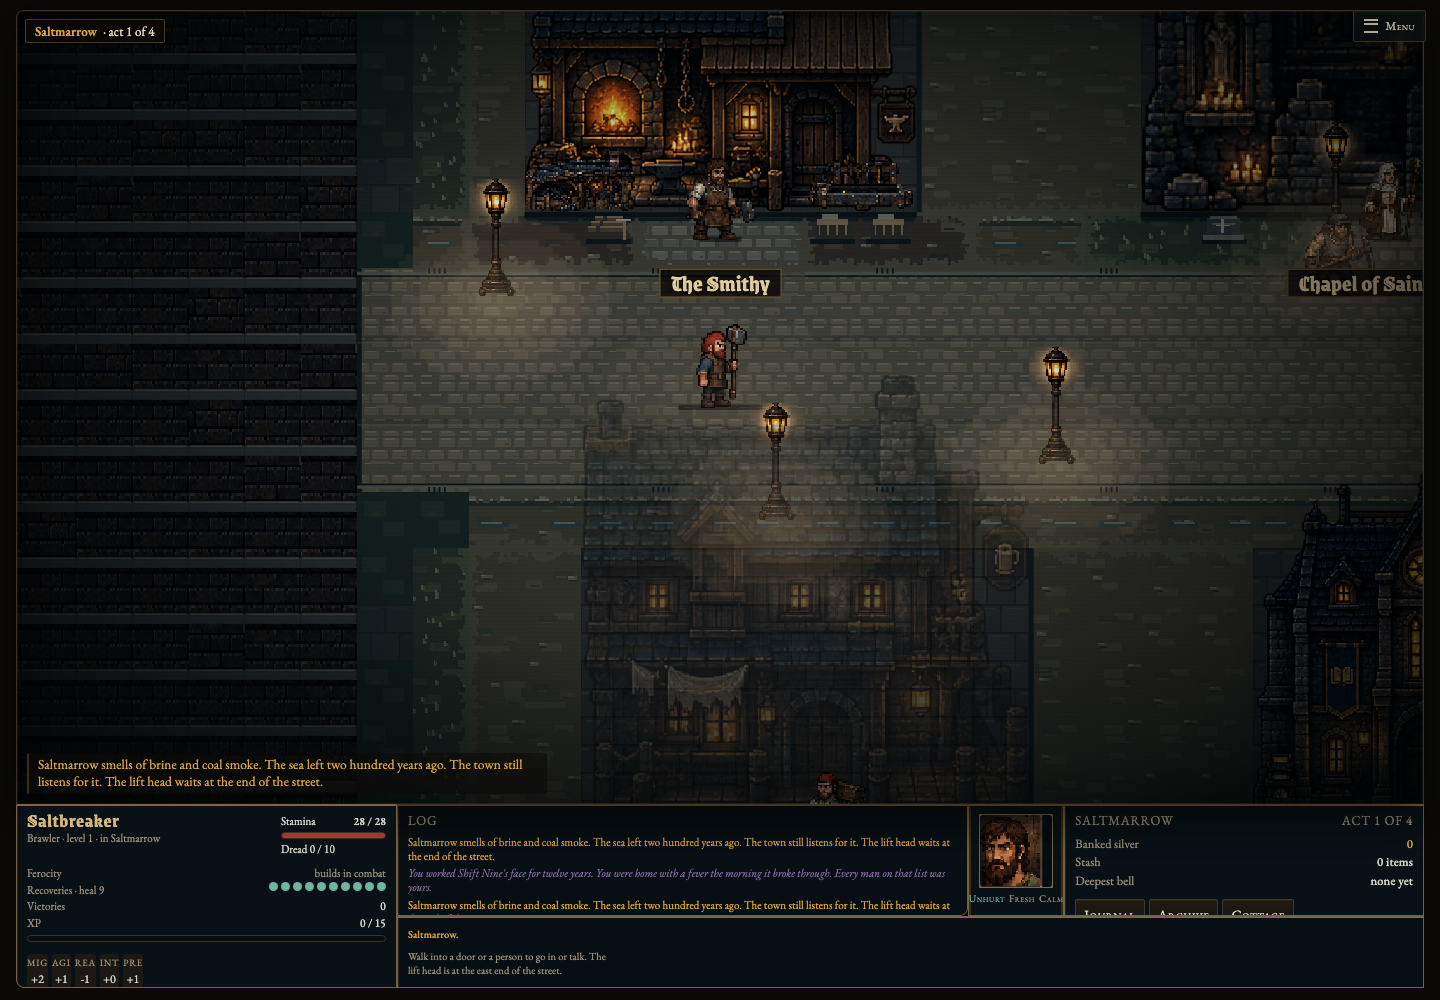
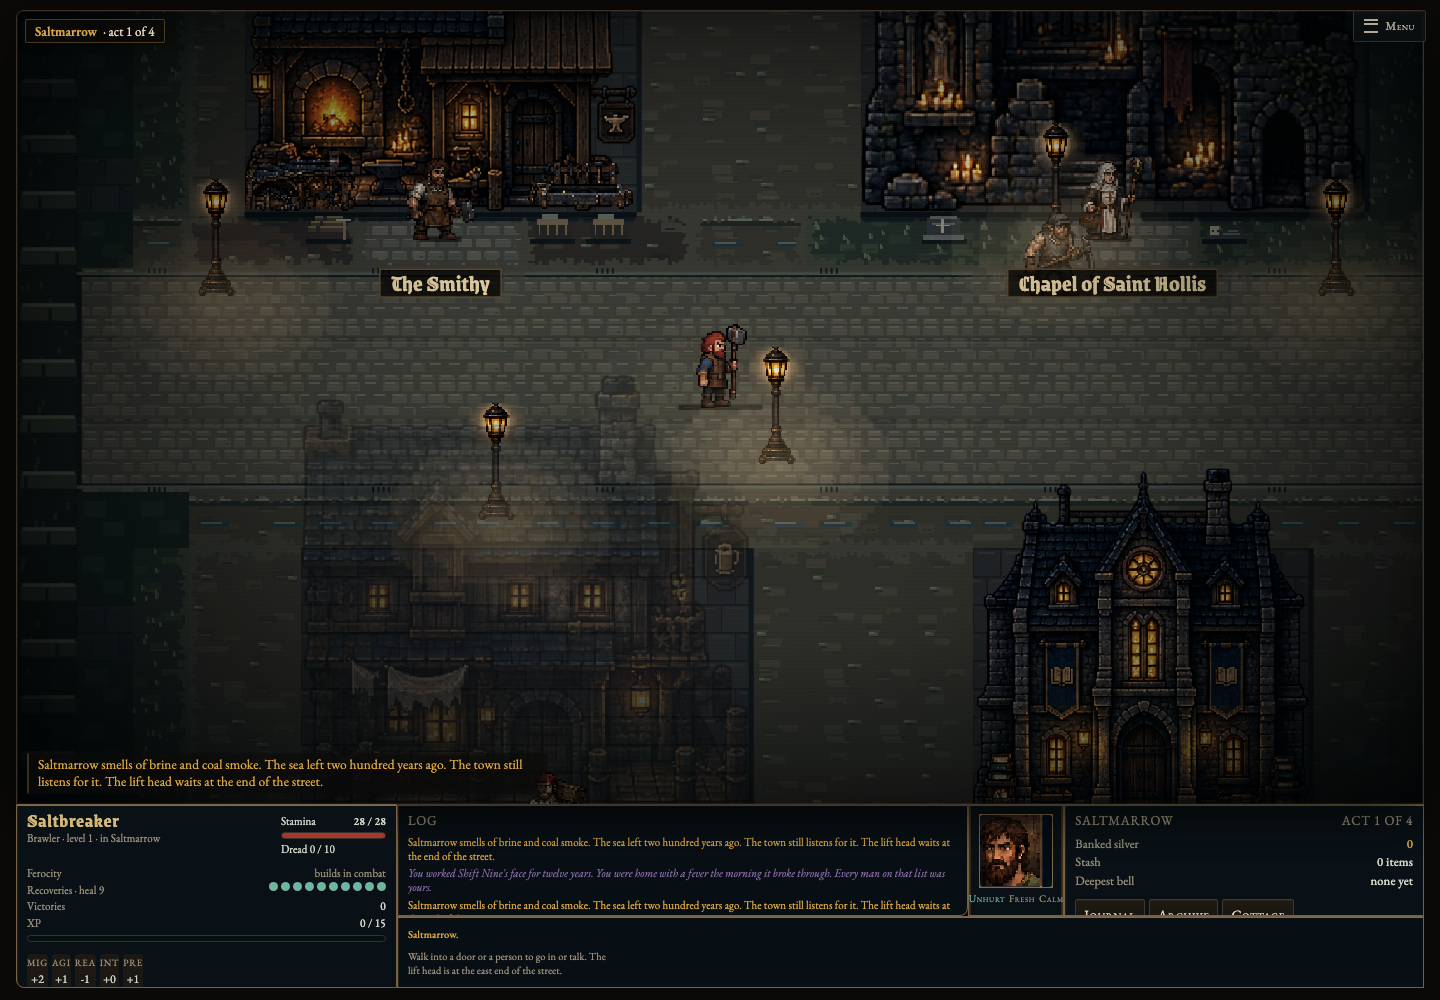
Ground town outskirts and refine the street comparison camera

diff --git a/environment-surfaces.js b/environment-surfaces.js
@@ -56,6 +56,13 @@ function get(L,t,x,y,{w,types,buildings=[]}){
  return tile(kind,hash(x,y,13)%8,edges);
 }
 function wall(g,L,x,y,front,w){
+ if(L.town&&!L.interior){
+  const i=y*w+x,edge=[L.map[i-w],L.map[i+w],L.map[i-1],L.map[i+1]].some(t=>t!==undefined&&t!==0);
+  g.save();g.fillStyle='#172622';g.fillRect(x*32,y*32,32,32);
+  g.fillStyle='#25372a';for(let j=0;j<4;j++){const n=hash(x+j,y,29);g.fillRect(x*32+n%27,y*32+(n>>>5)%26,2,4)}
+  if(edge){g.fillStyle='#303c34';g.fillRect(x*32,(y+1)*32-11,32,9);g.fillStyle='#56604b';g.fillRect(x*32+1,(y+1)*32-12,30,2);g.fillStyle='#172820';g.fillRect(x*32+hash(x,y)%21,(y+1)*32-9,2,7)}
+  g.restore();return true;
+ }
  if(L.bio!=='mine'||L.map[y*w+x]!==0)return false;
  const exposed=front||L.map[(y+1)*w+x]===1||L.map[y*w+x-1]===1||L.map[y*w+x+1]===1;
  if(!exposed){g.fillStyle='#152322';g.fillRect(x*32,y*32,32,32);const n=hash(Math.floor(x/2),Math.floor(y/2),91);g.fillStyle='#1c2b28';g.fillRect(x*32,y*32+4+n%9,32,11);return true;}

diff --git a/docs/environment-workyards.md b/docs/environment-workyards.md
@@ -4,7 +4,7 @@ This expands the environment pass using two references as design principles: Cor
 
 ## What changed
 
-The town now separates worn cobbled streets, paved entrances, cinder-stained smithy frontage, damp verge drainage, packed-earth yards and grass margins. Wheel wear follows two continuous world-space tracks, rather than repeating within every tile. Stepped boundaries break up material transitions. The smithy has a roofed coal store and a quenching trough with a tool rack, positioned inside its existing blocked facade cells and away from its doorway.
+The town now separates worn cobbled streets, paved entrances, cinder-stained smithy frontage, damp verge drainage, packed-earth yards and grass margins. Wheel wear follows two continuous world-space tracks, rather than repeating within every tile. Stepped boundaries break up material transitions. Town outskirts use dark ground, grass tufts and low stone boundaries instead of dungeon masonry. The smithy has a roofed coal store and a quenching trough with a tool rack, positioned inside its existing blocked facade cells and away from its doorway.
 
 Mine floors distinguish compacted earth, exposed bedrock, working bays and scree along room rims. Solid surrounding rock is deliberately darker and quieter than exposed wall faces. Irregular wall fractures and spaced timber supports replace the uniform masonry finish; cracked walls retain their gameplay cues. Procedural rooms with suitable rear walls receive a survey/tool station or a winch for rail/storage rooms. A restrained lantern pool grounds the survey station.
 
@@ -21,7 +21,7 @@ Mine floors distinguish compacted earth, exposed bedrock, working bays and scree
 
 On current animation/weapon main `9bf5a8a`:
 
-- `npm test`: **71 passing**. Includes 80 seeded dungeon placement runs and 60 additional seeded mine landmark runs, immutable simulation data/RNG, entrance clearance, wall-bound placement, broken-wall/clue/fog suppression and material classification.
+- `npm test`: **72 passing**. Includes 80 seeded dungeon placement runs and 60 additional seeded mine landmark runs, immutable simulation data/RNG, entrance clearance, wall-bound placement, broken-wall/clue/fog suppression and material classification.
 - `node tests/environment-browser.cjs`: desktop town/mine/crypt/fungal/drowned generation; four workyard sprites load with bounded native sizes; matched frozen before/after renders differ; actual movement through decorated tiles succeeds; map data stays unchanged; no page errors; smoothing disabled.
 - `node tests/tactics-browser.cjs`, `node tests/weapons-browser.cjs`, `node tests/animation-browser.cjs`, `node tests/flat-browser.cjs`, `node tests/art-browser.cjs`: pass locally.
 - Local 1440×1000 Chromium full-scene draws averaged approximately **6–14 ms** over 30 warm draws per scene. This is a diagnostic, not a physical GPU or Safari performance guarantee.

diff --git a/docs/environment-art.md b/docs/environment-art.md
@@ -23,7 +23,7 @@ The plan is intentionally stable for each level object: changes to terrain suppr
 
 On macOS, 1440×1000 Chromium desktop viewport, DPR 1:
 
-- `npm test`: **71 passing**, including 80 reproducible real dungeon generations (20 seeds at depths 1/3/5/7), immutability, no gameplay RNG consumption, corridor/entrance clearance, dynamic occupancy/hazard suppression, reduced-motion glow and renderer ordering.
+- `npm test`: **72 passing**, including 80 reproducible real dungeon generations (20 seeds at depths 1/3/5/7), immutability, no gameplay RNG consumption, corridor/entrance clearance, dynamic occupancy/hazard suppression, reduced-motion glow and renderer ordering.
 - `npm run test:environment`: five real game scenes, matched screenshots with only the two environment hooks toggled, actual keyboard-equivalent traversal into decorated cells, unchanged navigation data, smoothing disabled and no runtime errors. About **6–14 ms per full render** in this local run (30 synchronous draws per scene; diagnostic, not a universal frame-rate promise).
 - `npm run test:tactics`: desktop bomb inspect, round feedback, no wall-clock turn progression, immediate daze interruption; passes with the environment enabled.
 - `npm run test:weapons`: all equipment/unequip, real attacks, turn invariants and impact timing at three paces pass on the combined environment + merged weapons code.
